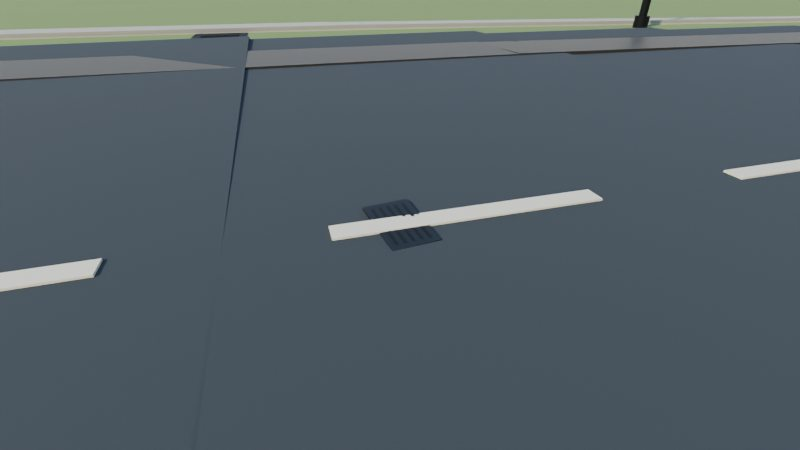
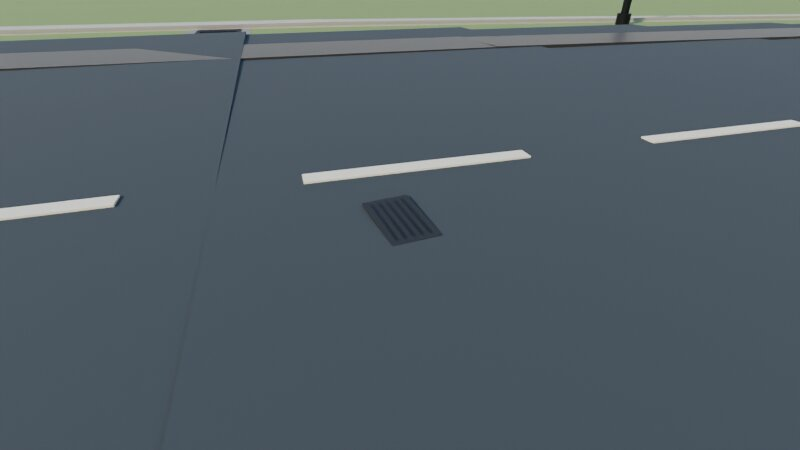
Sewers review: drain 3's light grate off the boulevard's centre line
Seen in the review render: the little road grate over Bowl Lane's pipe sat on the boulevard's centre
line, with the lane marking painted across it. It moves 2.5 studs south along the pipe, into the
south lane (1343.76, -2.5); the boulevard there is 9.621 (Pipe.ROAD_TOP; sewers_bake checks it on
the baked town), and the vault's grille follows to the nearest point of the pipe.

Claude-Session: https://claude.ai/code/session_01M7kvU21XVNfCAcdQZ7o6vh

diff --git a/docs/reports/compile_report.md b/docs/reports/compile_report.md
@@ -1,6 +1,6 @@
 # Compile report: authored data -> `generated/`
 
-Generated 2026-11-13T23:11:07.968798292+00:00 by `tools/compile` (Lune lune 0.11.1). Command: `lune run tools/compile/main.luau compile` (see `tools/compile/README.md`). Staleness gate: `lune run tools/compile/main.luau check`.
+Generated 2026-11-14T00:58:48.093826751+00:00 by `tools/compile` (Lune lune 0.11.1). Command: `lune run tools/compile/main.luau compile` (see `tools/compile/README.md`). Staleness gate: `lune run tools/compile/main.luau check`.
 
 ## Inputs
 
@@ -136,32 +136,32 @@ Distinct lot types: 74 (ambient_npcs, ambulance_bay, atrium, backyard_doghouse, 
 
 | module | records | bytes | require (ms, Lune) | source |
 |---|---|---|---|---|
-| Lots | 243 | 190369 | 6.0 | data/authored/town/lots/*.json |
-| Roads | 116 | 41940 | 1.6 | data/authored/town/roads.json |
-| Lanes | 25 | 18253 | 1.2 | data/authored/town/lanes.json |
-| Cast | 87 | 71807 | 2.9 | data/authored/cast/cast.json |
+| Lots | 243 | 190369 | 6.5 | data/authored/town/lots/*.json |
+| Roads | 116 | 41940 | 1.8 | data/authored/town/roads.json |
+| Lanes | 25 | 18253 | 1.3 | data/authored/town/lanes.json |
+| Cast | 87 | 71807 | 1.9 | data/authored/cast/cast.json |
 | RoutesCatalog | 60 | 41830 | 1.3 | data/authored/routes/catalog.json |
-| Wildlife | 95 | 61201 | 3.7 | data/authored/wildlife/*.json |
-| Routes_01 | 391 | 204760 | 11.1 | data/harvest/routes.json (chunk 1 of 4; pinned to v5.4 HTML SHA-256 fc48b387e51ce3a454898d58d1cb3dda891b22ffad7110cdcd0ade6c777a6227) |
-| Routes_02 | 447 | 204694 | 7.7 | data/harvest/routes.json (chunk 2 of 4; pinned to v5.4 HTML SHA-256 fc48b387e51ce3a454898d58d1cb3dda891b22ffad7110cdcd0ade6c777a6227) |
-| Routes_03 | 413 | 205046 | 7.4 | data/harvest/routes.json (chunk 3 of 4; pinned to v5.4 HTML SHA-256 fc48b387e51ce3a454898d58d1cb3dda891b22ffad7110cdcd0ade6c777a6227) |
-| Routes_04 | 81 | 36112 | 1.5 | data/harvest/routes.json (chunk 4 of 4; pinned to v5.4 HTML SHA-256 fc48b387e51ce3a454898d58d1cb3dda891b22ffad7110cdcd0ade6c777a6227) |
-| Forks | 95 | 193316 | 8.8 | data/harvest/forks.json (canopyForks; pinned to v5.4 HTML SHA-256 fc48b387e51ce3a454898d58d1cb3dda891b22ffad7110cdcd0ade6c777a6227) |
-| LotTypes | 0 | 23026 | 1.5 | data/authored/lot_types.json |
-| Interiors | 0 | 11610 | 0.9 | data/interiors/*.json |
-| Buildings | 0 | 6132 | 0.6 | data/buildings/*.json |
-| HarvestPatches | 0 | 12240 | 0.4 | data/harvest_patches.json |
+| Wildlife | 95 | 61201 | 4.2 | data/authored/wildlife/*.json |
+| Routes_01 | 391 | 204760 | 11.6 | data/harvest/routes.json (chunk 1 of 4; pinned to v5.4 HTML SHA-256 fc48b387e51ce3a454898d58d1cb3dda891b22ffad7110cdcd0ade6c777a6227) |
+| Routes_02 | 447 | 204694 | 8.9 | data/harvest/routes.json (chunk 2 of 4; pinned to v5.4 HTML SHA-256 fc48b387e51ce3a454898d58d1cb3dda891b22ffad7110cdcd0ade6c777a6227) |
+| Routes_03 | 413 | 205046 | 9.4 | data/harvest/routes.json (chunk 3 of 4; pinned to v5.4 HTML SHA-256 fc48b387e51ce3a454898d58d1cb3dda891b22ffad7110cdcd0ade6c777a6227) |
+| Routes_04 | 81 | 36112 | 2.0 | data/harvest/routes.json (chunk 4 of 4; pinned to v5.4 HTML SHA-256 fc48b387e51ce3a454898d58d1cb3dda891b22ffad7110cdcd0ade6c777a6227) |
+| Forks | 95 | 193316 | 9.9 | data/harvest/forks.json (canopyForks; pinned to v5.4 HTML SHA-256 fc48b387e51ce3a454898d58d1cb3dda891b22ffad7110cdcd0ade6c777a6227) |
+| LotTypes | 0 | 23026 | 1.6 | data/authored/lot_types.json |
+| Interiors | 0 | 11610 | 1.0 | data/interiors/*.json |
+| Buildings | 0 | 6132 | 0.7 | data/buildings/*.json |
+| HarvestPatches | 0 | 12240 | 0.5 | data/harvest_patches.json |
 | Population | 0 | 3184 | 0.5 | data/population.json |
-| Hollows | 0 | 6284 | 0.6 | data/hollows.json |
-| TerrainExtensions | 0 | 2379 | 0.4 | data/terrain_extensions.json |
+| Hollows | 0 | 6284 | 0.7 | data/hollows.json |
+| TerrainExtensions | 0 | 2379 | 0.5 | data/terrain_extensions.json |
 | Lighting | 0 | 1163 | 0.3 | data/authored/town/lighting.json |
-| Attractions | 3 | 11244 | 0.7 | data/attractions.json |
-| Sewers | 6 | 45476 | 2.8 | data/sewers.json |
-| Expansion | 46 | 137595 | 7.0 | data/expansion.json |
-| TreeArt | 95 | 176791 | 6.0 | data/art/tree_meshes.json |
-| Index | 1 | 1772 | 0.4 | tools/compile (module list, counts and the harvest pin) |
+| Attractions | 3 | 11244 | 0.8 | data/attractions.json |
+| Sewers | 6 | 45479 | 3.3 | data/sewers.json |
+| Expansion | 46 | 137595 | 9.0 | data/expansion.json |
+| TreeArt | 95 | 176791 | 8.1 | data/art/tree_meshes.json |
+| Index | 1 | 1772 | 0.5 | tools/compile (module list, counts and the harvest pin) |
 
-Total 24 files, 1708224 bytes; largest Routes_03 (205046 bytes, 7.4 ms to require under Lune). Routes are chunked at about 200 KB per module; `Index.luau` lists the chunks and counts.
+Total 24 files, 1708227 bytes; largest Routes_03 (205046 bytes, 9.4 ms to require under Lune). Routes are chunked at about 200 KB per module; `Index.luau` lists the chunks and counts.
 
 ## Notes for the lead
 
